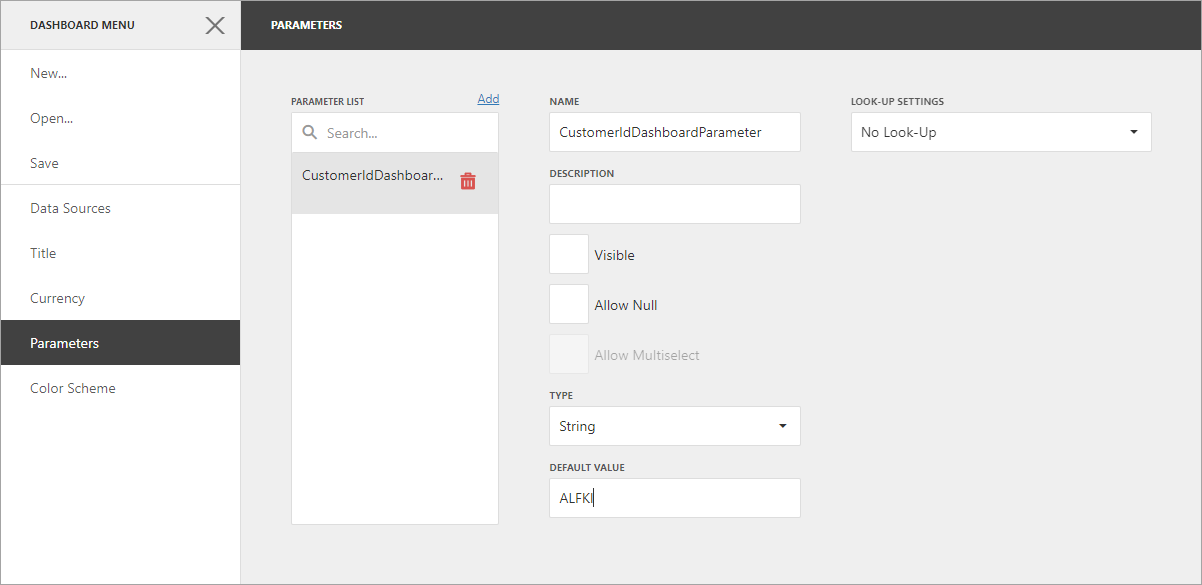
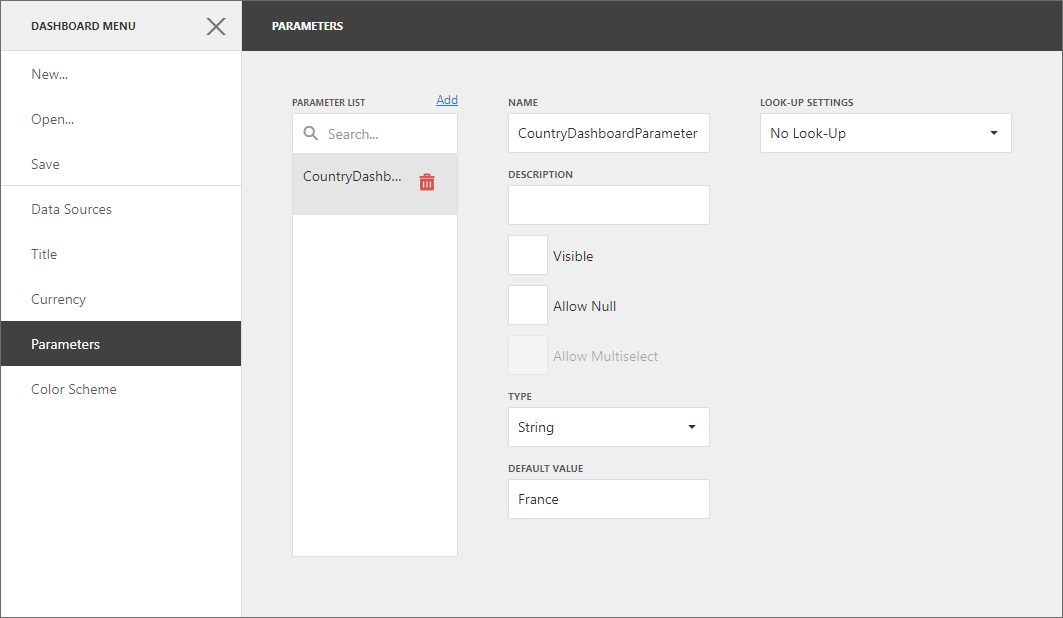
update custom parameter

diff --git a/Readme.md b/Readme.md
@@ -7,15 +7,21 @@
 
 This example shows how to pass a hidden [dashboard parameter](https://docs.devexpress.com/Dashboard/117062) to a [custom SQL query](https://docs.devexpress.com/Dashboard/117193).
 
-First, [create a dashboard parameter](https://docs.devexpress.com/Dashboard/117547). To do this, open the [dashboard menu](https://docs.devexpress.com/Dashboard/117444) and go to the **Parameters** section. In this section, create a parameter and specify its settings. Disable the [**Visible**](https://docs.devexpress.com/Dashboard/js-DevExpress.Dashboard.Model.Parameter#js_devexpress_dashboard_model_parameter_parametervisible) checkbox to hide the parameter from users. In this example, the dashboard parameter's name is **CustomerIdDashboardParameter**:
+> A user can get sensitive information from dashboard parameters. Encode the passed parameter value if possible. Do not store any sensitive information in dashboard parameters that isn't encrypted.
+
+First, [create a dashboard parameter](https://docs.devexpress.com/Dashboard/117547). To do this, open the [dashboard menu](https://docs.devexpress.com/Dashboard/117444) and go to the **Parameters** section. In this section, create a parameter and specify its settings. Disable the [**Visible**](https://docs.devexpress.com/Dashboard/js-DevExpress.Dashboard.Model.Parameter#js_devexpress_dashboard_model_parameter_parametervisible) checkbox to hide the parameter from users. In this example, the dashboard parameter's name is **CountryDashboardParameter**:
 
 ![Create a Dashboard Parameter](images/create-dashboard-parameter.png)
  
-To allow custom SQL query execution on the server, set the [`ASPxDashboard.AllowExecutingCustomSql`](https://docs.devexpress.com/Dashboard/DevExpress.DashboardWeb.ASPxDashboard.AllowExecutingCustomSql) property to `true`. To allow users to edit a custom SQL string in the SQL String editor, set the [`ASPxDashboard.EnableCustomSql`](https://docs.devexpress.com/Dashboard/DevExpress.DashboardWeb.ASPxDashboard.EnableCustomSql) property ro `true`. You can see the query specified for the data source in the [Data Source Wizard](https://docs.devexpress.com/Dashboard/117680):
+Set the [`ASPxDashboard.AllowExecutingCustomSql`](https://docs.devexpress.com/Dashboard/DevExpress.DashboardWeb.ASPxDashboard.AllowExecutingCustomSql) property to `true` to allow custom SQL query execution on the server. To allow users to edit a custom SQL string in the SQL String editor, set the [`ASPxDashboard.EnableCustomSql`](https://docs.devexpress.com/Dashboard/DevExpress.DashboardWeb.ASPxDashboard.EnableCustomSql) property ro `true`. 
+
+> The use of custom SQL queries can lead to inadvertent or unauthorized modifications to your data/database structure. Ensure that you follow best practices and implement the appropriate user read/write privileges at database level.
+
+You can see the query specified for the data source in the [Data Source Wizard](https://docs.devexpress.com/Dashboard/117680):
  
 ![Create a Dashboard Parameter](images/data-source-wizard-custom-query.png)
 
-This query contains a query parameter named **CustomerIdParameter**. To be able to change the parameter's value, bind it to the **CustomerIdDashboardParameter** dashboard parameter. To do this, on the second page of the Data Source Wizard set the parameter's type to *Expression* and specify the corresponding dashboard parameter in the **Value** field :
+This query contains a query parameter named **CountryParameter**. To be able to change the parameter's value, bind it to the **CountryDashboardParameter** dashboard parameter. To do this, on the second page of the Data Source Wizard set the parameter's type to *Expression* and specify the corresponding dashboard parameter in the **Value** field :
 
 ![Create a Dashboard Parameter](images/query-parameter-settings.png)
 
